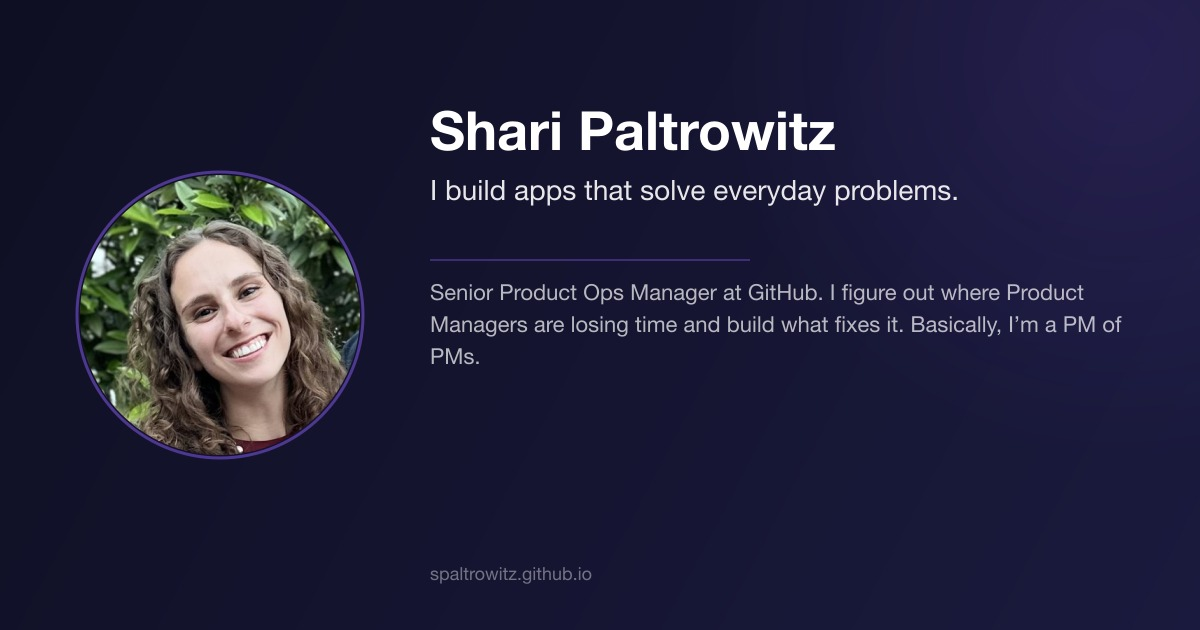
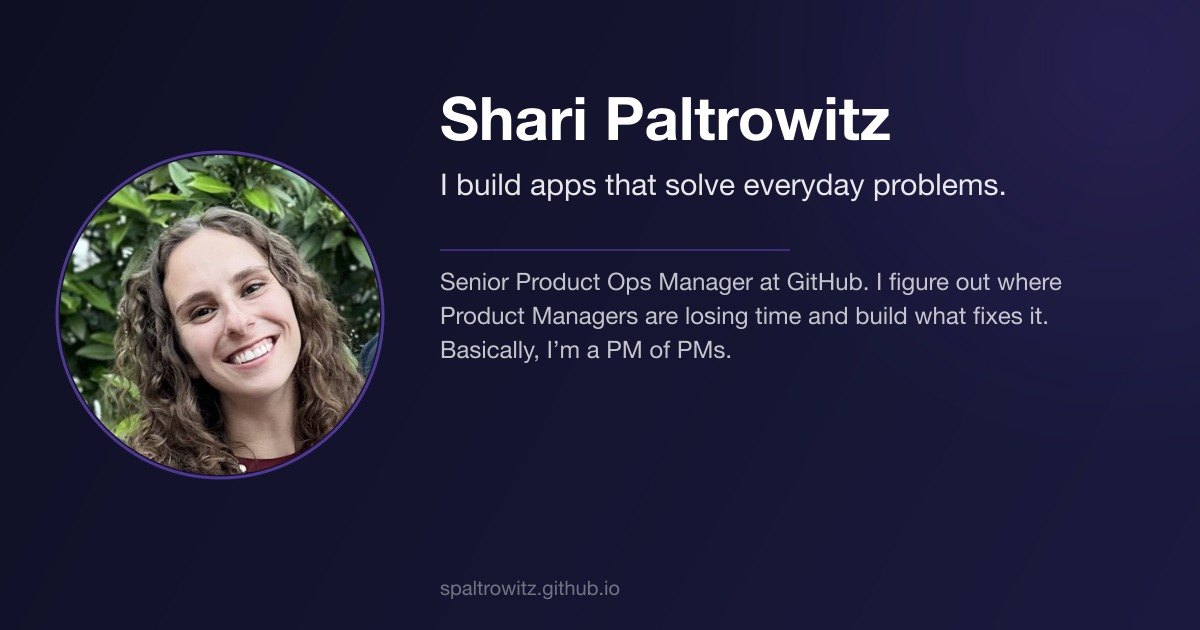
Scale up OG image text and close bottom gap
- Name: 60px, tagline: 30px, about: 24px, URL: 20px
- Headshot: 320px
- Tighter vertical spacing, URL pushed to bottom edge
- Bump cache-bust to v5

diff --git a/index.html b/index.html
@@ -8,11 +8,11 @@
   <meta property="og:title" content="Shari Paltrowitz | I Build Apps That Solve Everyday Problems">
   <meta property="og:description" content="Shari Paltrowitz builds apps that solve everyday problems. Try them out, send feedback, or pitch an idea.">
   <meta property="og:type" content="website">
-  <meta property="og:image" content="https://spaltrowitz.github.io/og-image.jpg?v=4">
+  <meta property="og:image" content="https://spaltrowitz.github.io/og-image.jpg?v=5">
   <meta property="og:image:width" content="1200">
   <meta property="og:image:height" content="630">
   <meta name="twitter:card" content="summary_large_image">
-  <meta name="twitter:image" content="https://spaltrowitz.github.io/og-image.jpg?v=4">
+  <meta name="twitter:image" content="https://spaltrowitz.github.io/og-image.jpg?v=5">
   <link rel="icon" type="image/x-icon" href="favicon.ico">
   <link rel="preconnect" href="https://fonts.googleapis.com">
   <link rel="preconnect" href="https://fonts.gstatic.com" crossorigin>
